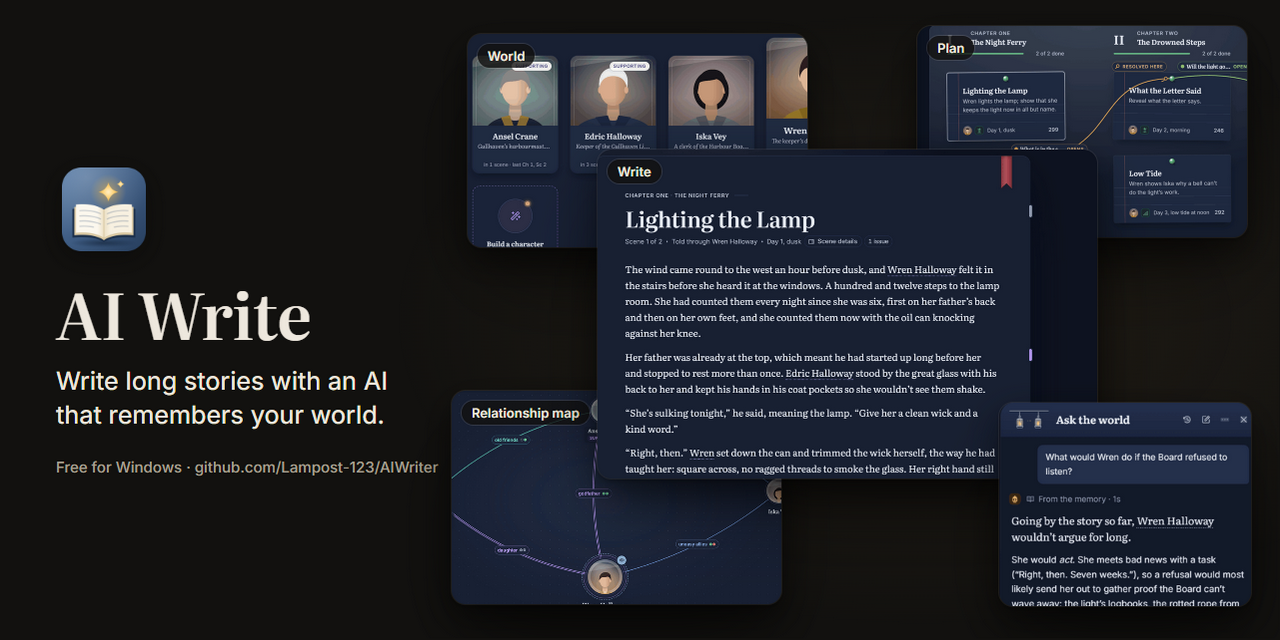
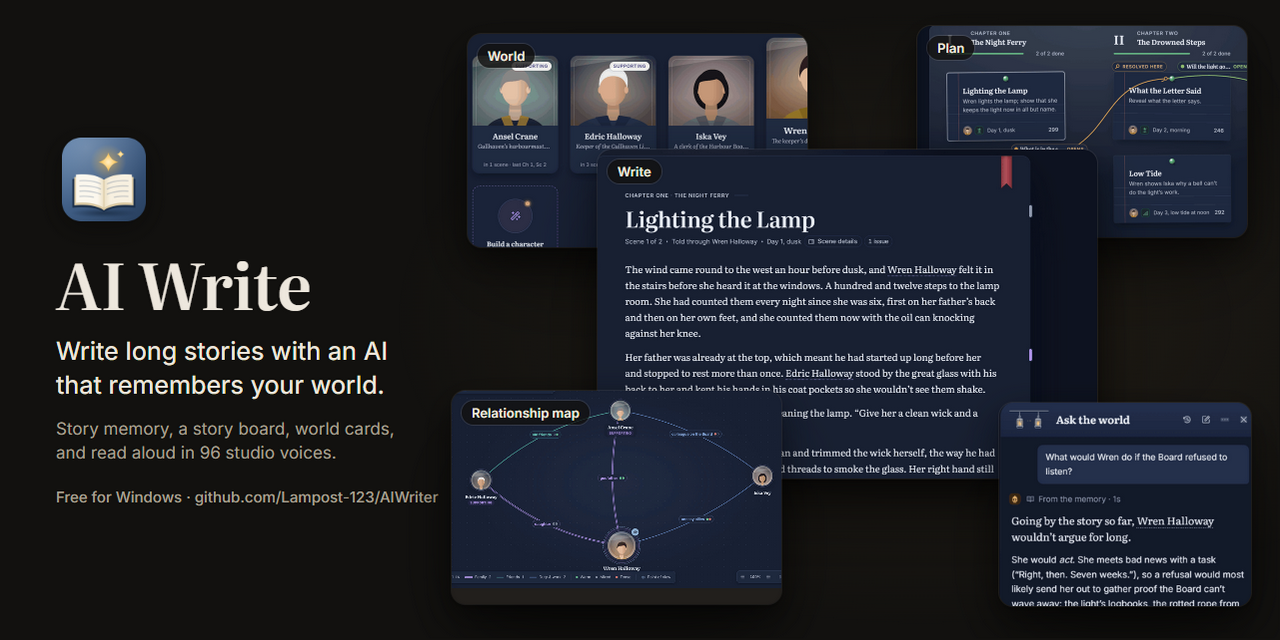
Docs: read aloud's 96 studio voices and character voices; social card line

diff --git a/tests/docs/social.ts b/tests/docs/social.ts
@@ -28,12 +28,12 @@ export function socialPage(root: string, theme: keyof typeof COLOURS = 'dark'): 
   const inter = font('inter-latin-wght-normal-')
   const icon = url(join(root, 'build', 'icon.png'))
   const img = (name: string): string => url(join(root, 'docs', 'images', `${name}.png`))
-  // A collage of the app's own screenshots (1440 x 900 each): the desk's Write room in front, four rooms around it, Ask over its corner.
+  // A collage of the app's own screenshots (1440 x 900 each): the desk's Write room in front, four rooms around it, the map and Ask over its lower corners.
   // Each panel: [picture, left, top, width, height, scale of the picture, crop x, crop y (in the picture's pixels), label (none where the picture shows its own title), z].
   const panels: [string, number, number, number, number, number, number, number, string, number][] = [
     ['world-gallery', 468, 34, 340, 214, 0.5, 372, 270, 'World', 1],
     ['story-board', 918, 26, 330, 212, 0.5, 318, 262, 'Plan', 1],
-    ['world-map', 452, 392, 330, 214, 0.42, 500, 330, 'Relationship map', 2],
+    ['world-map', 452, 392, 330, 214, 0.34, 365, 318, 'Relationship map', 4],
     ['ask', 1000, 404, 252, 204, 0.75, 1078, 66, '', 4],
     ['hero', 598, 150, 500, 330, 0.55, 476, 46, 'Write', 3]
   ]
@@ -49,7 +49,8 @@ body::before { content: ''; position: absolute; inset: 0; background: radial-gra
 .left { position: absolute; left: 56px; top: 0; bottom: 0; width: 372px; display: flex; flex-direction: column; justify-content: center; }
 .icon { width: 96px; height: 96px; margin-bottom: 24px; filter: drop-shadow(0 6px 14px rgb(0 0 0 / 0.3)); }
 h1 { font-family: 'Literata Variable', serif; font-weight: 600; font-size: 64px; line-height: 1; letter-spacing: -0.01em; margin: 0 0 20px; }
-.tag { font-size: 25px; line-height: 1.34; font-weight: 450; margin: 0 0 26px; color: ${c.fg}; }
+.tag { font-size: 25px; line-height: 1.34; font-weight: 450; margin: 0 0 16px; color: ${c.fg}; }
+.extra { font-size: 17px; line-height: 1.4; color: ${c.muted}; margin: 0 0 22px; }
 .small { font-size: 15px; color: ${c.muted}; font-weight: 500; white-space: nowrap; }
 .panel { position: absolute; border-radius: 14px; overflow: hidden; background-color: ${c.page}; background-repeat: no-repeat; box-shadow: ${c.shadow}; }
 .label { position: absolute; left: 10px; top: 10px; padding: 4px 10px; border-radius: 999px; font-size: 13px; font-weight: 600;
@@ -59,6 +60,7 @@ h1 { font-family: 'Literata Variable', serif; font-weight: 600; font-size: 64px;
   <img class="icon" src="${icon}" alt="">
   <h1>AI Write</h1>
   <p class="tag">Write long stories with an AI that remembers your world.</p>
+  <p class="extra">Story memory, a story board, world cards, and read aloud in 96 studio voices.</p>
   <div class="small">Free for Windows · github.com/Lampost-123/AIWriter</div>
 </div>
 ${panels.map(panel).join('')}

diff --git a/docs/guide/read-aloud-and-dictation.md b/docs/guide/read-aloud-and-dictation.md
@@ -1,7 +1,7 @@
 # Read aloud and dictation
 
 Hearing your words read aloud is one of the best ways to catch a clumsy sentence. AI Write can read your scenes with
-a narrator and a different voice for each character. It can also type what you say, so you can draft by talking.
+a narrator and a different voice for each character, chosen from 96 studio voices recorded by real people. It can also type what you say, so you can draft by talking.
 
 The voices and dictation run on your own computer, so there's no cost per use. They are off until you turn them on,
 and each part downloads only when you ask for it. Everything here is in **Settings › Read aloud and dictation**.
@@ -51,8 +51,11 @@ The sentence being read is highlighted. With **Follow along** on, the page scrol
 
 - Turn on **Give characters their own voices**. Each character's lines are read in the voice set on their page in
   your world (**Read-aloud voice**). Other quoted lines use the **Quoted dialogue** voice.
+- Turn on **Read thoughts, messages and letters in the character’s voice**: a character's thoughts are read softly
+  in their voice, and the texts, chat messages and letters they write in their voice too. Signs, and words nobody
+  owns, stay with the narrator.
 - **Describe the narrator** in a few words to shape the narrator's voice.
-- **Studio voices** are 96 real voices recorded in a studio. Download them with **Download the studio voices**.
+- **Studio voices** are 96 real voices recorded in a studio, to give each character a voice of their own. Download them with **Download the studio voices**.
   Turn on **Act out feelings** and a character reads an angry, frightened or tender line from their own recording
   of that feeling.
 

diff --git a/README.md b/README.md
@@ -191,7 +191,8 @@ beside the words, so that doesn't happen.
 <tr>
 <td width="50%">
 
-- **Listen** reads your scene aloud (Ctrl+L), with a narrator and a voice for each character.
+- **Listen** reads your scene aloud (Ctrl+L), with a narrator and a voice for each character, from **96 studio voices** recorded by real people.
+- Characters' thoughts, texts, chat messages and letters are read in their own voice too.
 - Hold a key and talk: dictation types your words where the cursor is.
 - The voices and dictation run on your own computer, downloaded only when you ask for them. Nothing to pay per use.
 
